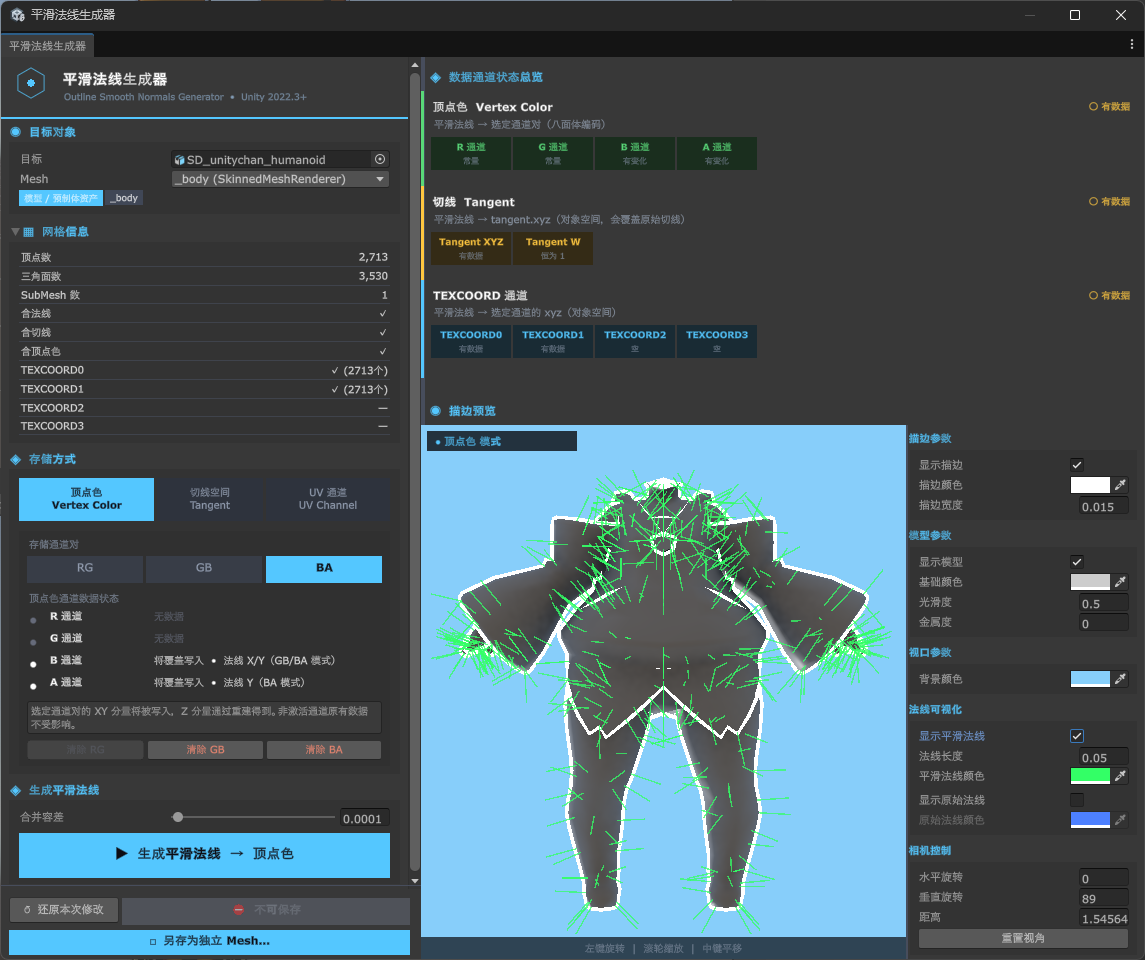
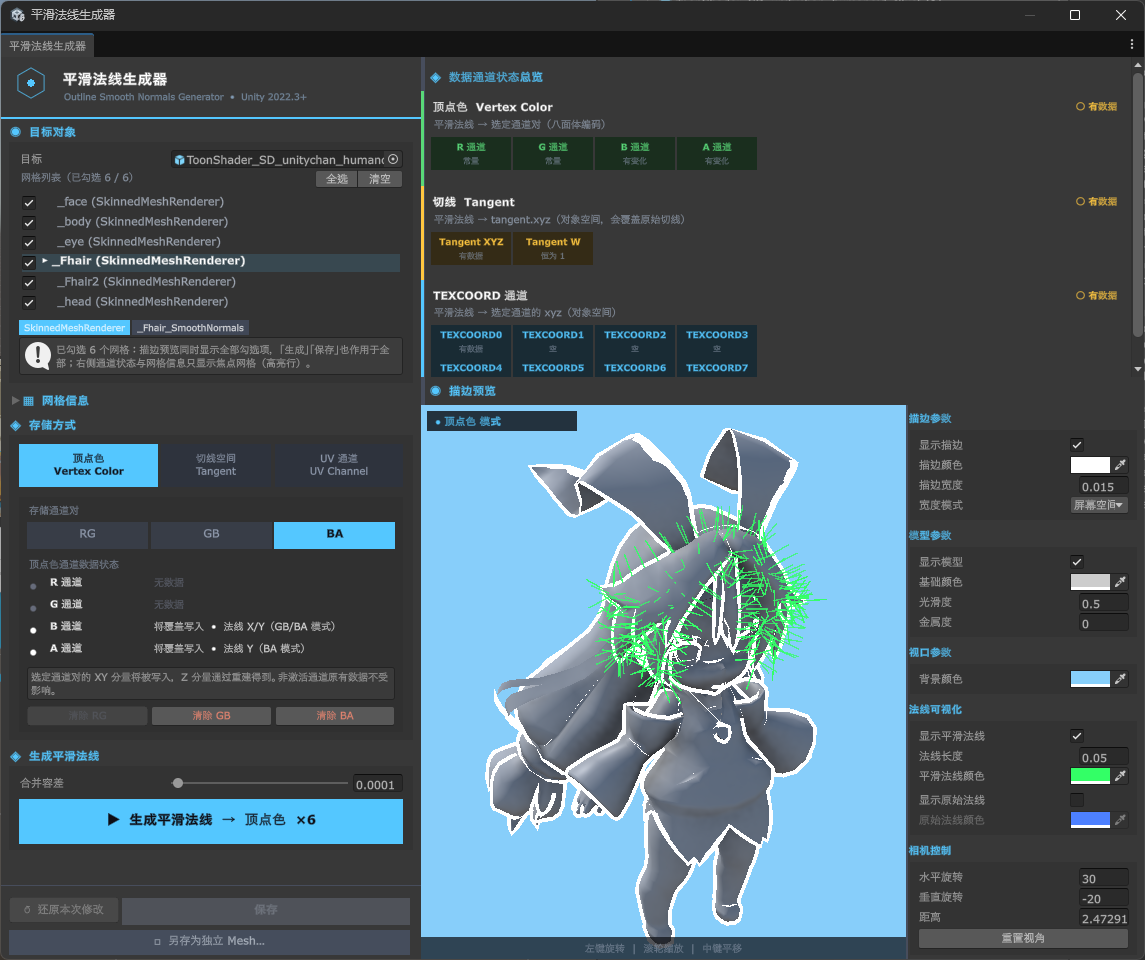
【使用文档】 更新至1.3.0。

diff --git a/Packages/com.alefeng.outlinesmoothnormalsgenerator/README.md b/Packages/com.alefeng.outlinesmoothnormalsgenerator/README.md
@@ -67,11 +67,14 @@ com.alefeng.outlinesmoothnormalsgenerator/
 选择目标，工具会自动读取。目标可以是：
 
 - **场景对象 / 模型**（`.fbx` / `.obj` 等）**/ 预制体** —— 都会自动**遍历整个层级**（含子物体），
-  收集其中全部网格；含多个网格时，用目标区的 **Mesh 下拉**逐个选择（同一网格被多个渲染器
-  共用时自动去重）。
+  收集其中全部网格。
 - **Mesh 资产** —— Project 里的独立 `.asset`，或展开 FBX 选中的 Mesh 子资产，直接就是目标。
 
 也可手动把上述任意一种拖入「目标」字段。
+
+含多个网格时，目标区会列出一个**复选框滚动列表**（顶部「全选 / 清空」，加载新来源时默认
+全选，同一网格被多个渲染器共用时自动去重）。**勾选**决定「生成 / 保存 / 另存为」作用于哪些
+网格、也决定预览显示哪些；**单击网格名**把它设为**焦点** —— 右侧网格信息与通道状态显示焦点网格。
 
 ### 3. 确保网格可写
 
@@ -89,10 +92,11 @@ com.alefeng.outlinesmoothnormalsgenerator/
 
 ### 5. 预览
 
-窗口右侧就是实时预览（**内嵌**，不是单独的窗口）：
+窗口右侧就是实时预览（**内嵌**，不是单独的窗口），显示所有**勾选**的网格（多选时按各自在
+层级中的相对位置同屏摆放，相机自动兜住全部；未勾选时显示占位提示）：
 
 - 左键拖动旋转，滚轮缩放，中键平移
-- 可开启 **显示平滑法线**（绿）与 **显示原始法线**（蓝）叠加对比
+- 可开启 **显示平滑法线**（绿）与 **显示原始法线**（蓝）叠加对比（针对焦点网格）
 - 可调描边宽度、颜色、模型光滑度 / 金属度、背景色
 
 预览与实际渲染共用同一份解码与外扩数学，所见即所得。
@@ -107,11 +111,12 @@ com.alefeng.outlinesmoothnormalsgenerator/
 |---|---|---|
 | **顶点色** | 选定通道对（RG / GB / **BA**） | 八面体编码，2 个 8-bit 分量，误差约 1°。顶点色空闲时的首选。 |
 | **切线** | `tangent.xyz`（`w` 恒为 1） | 完整 float 精度。⚠ **会覆盖原始切线，法线贴图将失效**，仅在该网格不用法线贴图时选用。 |
-| **TEXCOORD** | `TEXCOORD0`–`TEXCOORD3` 的 `xyz` | 完整 float 精度。顶点色被占用时的推荐选择。 |
+| **TEXCOORD** | `TEXCOORD0`–`TEXCOORD7` 的 `xyz` | 完整 float 精度，共 8 个通道可选。顶点色被占用时的推荐选择。 |
 
 ### 关于 TEXCOORD 命名
 
-通道一律以 **`TEXCOORDn`** 称呼，与 `mesh.SetUVs(n)` 的索引**恒等对应**。
+共 8 个通道（`TEXCOORD0`–`TEXCOORD7`），一律以 **`TEXCOORDn`** 称呼，与 `mesh.SetUVs(n)`
+的索引**恒等对应**。
 
 不用「UV1 / UV2」这类叫法是有原因的：Unity 自己的 `mesh.uv2` 其实是 `TEXCOORD1`，
 名字与索引天然差一位，极易搞错。
@@ -153,8 +158,8 @@ com.alefeng.outlinesmoothnormalsgenerator/
 
 | 按钮 | 作用 |
 |---|---|
-| `保存` | 把改动写回 `.asset`。网格不可写时会**阻止**并说明原因，绝不谎报成功。 |
-| `⧉ 另存为独立 Mesh…` | 复制成可写的 `.asset` 并自动替换到对象上。不可写网格唯一的出路。 |
+| `保存` | 把**所有勾选**网格的改动写回各自 `.asset`。网格不可写时会**阻止**并说明原因，绝不谎报成功。 |
+| `⧉ 另存为独立 Mesh…` | 把**所有勾选**的网格复制成可写的 `.asset`（勾 1 个弹命名框，勾多个选文件夹批量生成），场景对象自动回填组件。不可写网格唯一的出路。 |
 | `↺ 还原本次修改` | 回退到本次生成 / 清除之前的状态。 |
 
 > **本工具不依赖 Unity 的 Undo。** `Undo.RecordObject` 并不可靠地跟踪网格顶点数据，
@@ -172,14 +177,16 @@ com.alefeng.outlinesmoothnormalsgenerator/
 
 1. 为模型新建材质，Shader 选 `OutlineSmoothNormalsGenerator/Outline URP`
    （或 `... /Outline Built-in`）。
-2. 在 **Smooth Normal Source** 中选择与**生成时一致**的存储通道。
-   顶点色模式还需把 **Vertex Color Channel** 设成与烘焙时相同的通道对。
+2. 在 **Smooth Normal Source** 中选择与**生成时一致**的存储通道（顶点色 / 切线 /
+   `TEXCOORD0`–`TEXCOORD7`）。顶点色模式还需把 **Vertex Color Channel** 设成与烘焙时相同的通道对。
 3. 调整描边颜色与宽度。**宽度模式**可选 **屏幕空间**（等宽，不随距离变化）或 **世界空间**（按世界单位偏移，近大远小）。
 
 `VertexNormal` 模式沿原始顶点法线外扩，即「未使用本工具」的对照效果，可用来直观对比。
 
 Shader 是两个 Pass：`OUTLINE`（剔除正面的外扩描边）+ `FORWARD`（基础 NPR：
-卡通两段式明暗 + 边缘光，可在材质面板调参）。
+卡通两段式明暗 + 边缘光，可在材质面板调参）。材质面板的 **Base Color Mode** 还提供一组
+**调试档位**，把平滑法线数据直接当颜色显示（顶点色 / 切线 / `UV0`–`UV7`，不经光照），
+便于肉眼核对生成结果；生产时切回 **Base Map**。
 
 ### 方法二：把描边 Pass 并入你自己的 Shader（推荐）
 

diff --git a/README_EN.md b/README_EN.md
@@ -66,7 +66,7 @@ The whole process happens inside the editor, with **live preview, normal-visuali
 | Feature | Description |
 | --- | --- |
 | Angle-weighted smooth normals | Groups vertices by "equal position" and averages face normals weighted by angle, producing a continuous extrusion direction across hard edges that eliminates outline cracking at the source. Also auto-corrects winding orientation for back-facing / double-sided meshes. |
-| Three storage modes | **Vertex color** (selectable RG / GB / BA channel pair, octahedral-encoded), **tangent** (`tangent.xyz`), and **TEXCOORD0–3**. All store a full object-space direction — no compression ambiguity. |
+| Three storage modes | **Vertex color** (selectable RG / GB / BA channel pair, octahedral-encoded), **tangent** (`tangent.xyz`), and **TEXCOORD0–7** (8 channels). All store a full object-space direction — no compression ambiguity. |
 | Live outline preview | Embedded preview viewport with left-drag orbit / scroll zoom / middle-drag pan; adjust outline width, color, plus model smoothness / metallic / base color and background color in real time. |
 | Normal visualization compare | Overlay both the "smooth normal" and "original normal" line segments at once to directly compare the direction difference at hard edges and validate the result instantly. |
 | Data channel overview | Shows in real time whether each channel is "● has smooth normals / ○ has raw data / ✕ empty", so you don't accidentally overwrite existing vertex-color or UV data. |
@@ -100,7 +100,7 @@ https://github.com/AleFeng/OutlineSmoothNormalsGenerator.git?path=/Packages/com.
 This installs the latest commit on `main`. **To pin a version, append `#<tag>` at the very end of the URL** — it must come after `?path=`:
 
 ```
-https://github.com/AleFeng/OutlineSmoothNormalsGenerator.git?path=/Packages/com.alefeng.outlinesmoothnormalsgenerator#1.2.0
+https://github.com/AleFeng/OutlineSmoothNormalsGenerator.git?path=/Packages/com.alefeng.outlinesmoothnormalsgenerator#1.3.0
 ```
 
 See [Releases](https://github.com/AleFeng/OutlineSmoothNormalsGenerator/releases) for available tags.
@@ -136,7 +136,7 @@ Below is the shortest path. **The complete parameter reference and shader sampli
 Menu bar → `Tools → Smooth Normal Generator` to open the "Smooth Normal Generator" window.
 
 ### 2. Pick a Target and Storage Mode
-- Select a target and the tool reads it automatically. It can be a **scene object** (with `MeshFilter` / `SkinnedMeshRenderer`), or a **Mesh asset**, **model** (`.fbx`, etc.), or **prefab** in the Project; you can also drag it into the "Target" field manually. Selecting a scene object, model, or prefab **traverses the whole hierarchy** to collect every mesh in it; when there is more than one, pick from the **Mesh dropdown** in the target section.
+- Select a target and the tool reads it automatically. It can be a **scene object** (with `MeshFilter` / `SkinnedMeshRenderer`), or a **Mesh asset**, **model** (`.fbx`, etc.), or **prefab** in the Project; you can also drag it into the "Target" field manually. Selecting a scene object, model, or prefab **traverses the whole hierarchy** to collect every mesh in it; when there is more than one, the target section shows a **checkbox list** ("Select All / Clear" on top, all selected by default) — **check multiple meshes to edit them together**: Generate / Save / Save As act on every checked mesh, and the preview shows all checked meshes at once.
 - In "Storage Mode", choose **Vertex Color / Tangent / TEXCOORD** (see [Three Storage Modes](#-three-storage-modes)). The "Data Channel Overview" on the right tells you whether the target channel already holds data.
 
 ### 3. Generate and Preview
@@ -160,7 +160,7 @@ Smooth normals are always stored as a **full object-space direction** — no hem
 | --- | --- | --- |
 | **Vertex Color** | RG / GB / **BA** (default) channel pair of `color`, octahedral-encoded | First choice when vertex color is free. Two 8-bit components, ~1° error. |
 | **Tangent** | `tangent.xyz` (`w` is always 1) | Full float precision. ⚠ **Overwrites the original tangent and breaks normal mapping** — only use it when the mesh has no normal map. |
-| **TEXCOORD** | `xyz` of `TEXCOORD0`–`TEXCOORD3` | Recommended when vertex color is occupied. Full float precision. |
+| **TEXCOORD** | `xyz` of `TEXCOORD0`–`TEXCOORD7` | Recommended when vertex color is occupied; 8 channels. Full float precision. |
 
 > Channels are always named `TEXCOORDn`, identity-mapped to the `mesh.SetUVs(n)` index — Unity's own `mesh.uv2` is actually `TEXCOORD1`, so the "UV1/UV2" naming is trivially off by one.
 >

diff --git a/Packages/com.alefeng.outlinesmoothnormalsgenerator/CHANGELOG.md b/Packages/com.alefeng.outlinesmoothnormalsgenerator/CHANGELOG.md
@@ -6,6 +6,40 @@
 `0.x` 为发布前的开发迭代，`1.0.0` 是首个公开版本。由于此前从未对外发布，
 `0.x` 中的「修复」均针对内部早期实现，不涉及任何已发布版本的迁移。
 
+## [1.3.0] - 2026-07-18
+
+批量编辑、8 个 UV 通道、基础色调试。
+
+### 新增
+
+- **多网格批量编辑**：目标网格由「下拉逐个选」改为**复选框滚动列表**（顶部「全选 / 清空」，
+  加载新来源时默认全选）。「生成」「保存」「另存为」作用于**所有勾选的网格**；单击网格名
+  把它设为焦点，右侧网格信息 / 通道状态显示焦点网格。
+- **描边预览同屏显示所有勾选的网格**：按各自在层级中的相对变换摆放，相机自动兜住全部；
+  未勾选任何网格时显示占位提示。
+- **UV 通道由 4 个扩展到 8 个**（`TEXCOORD0`–`TEXCOORD7`）：工具的写入 / 检测 / 清除 /
+  预览，以及两个 Demo 描边 Shader 的描边来源与基础色显示，均支持 `TEXCOORD4`–`TEXCOORD7`。
+- **基础色调试模式**（Demo Shader 材质面板 `Base Color Mode`）：把平滑法线数据直接当颜色
+  显示、不经光照，便于肉眼核对生成结果。含 Base Map / 顶点色（RGB）/ 顶点色 RG·GB·BA
+  （各只显示对应通道对）/ 切线空间（`[-1,1]` 映射到 `[0,1]`）/ UV0–UV7。
+
+### 变更
+
+- **「另存为独立 Mesh」批量化**：勾选 1 个时弹命名对话框（体验同旧版）；勾选多个时选一个
+  目标文件夹，按各自网格名批量生成独立 `.asset`（自动去重命名），场景对象的网格自动
+  回填到组件。「保存」与「另存为」的作用对象都是所有勾选的网格。
+- **描边来源 `_SmoothNormalSrc` 改为运行时按 float 分支**：存储通道扩到 8 个、连同其他
+  模式共 11 项，超过 Shader 内联 `[KeywordEnum]` 上限，故不再用 shader 关键字（改为运行时
+  选择、与预览 Shader 统一，逐顶点一次整型比较、对描边开销可忽略），下拉由自定义 Inspector
+  绘制。取值 0–6 不变、`TEXCOORD4`–`7` 追加为 7–10，已有材质渲染不受影响。
+- **两个 Demo 描边 Shader 的可复用数学收敛到共享 hlsl**：新增 `Shader/OutlineNPR.hlsl`
+  （基础 NPR 光照 + 基础色调试），连同核心 `OutlineSmoothNormals.hlsl` 里的解码来源选择，
+  两个管线共用一份，杜绝各抄一套而漂移。
+
+> ⚠ 从 Sample 复制 `OUTLINE` Pass 到自有 Shader 的用户：本版 Pass 改为读 `uv0`–`uv7`
+> 并按 `_SmoothNormalSrc`（float）运行时选择，不再依赖 `_SMOOTHNORMALSRC_*` 关键字；
+> 需要 8 通道支持时请重新复制本版 Pass。
+
 ## [1.2.0] - 2026-07-18
 
 描边渲染与目标选择增强。
@@ -272,6 +306,7 @@
   不会进入播放器构建 —— 生产用 Shader 放在那里会导致材质在构建后失效。
 - `shader_feature` → `shader_feature_local_vertex`：不再占用全局关键字槽位。
 
+[1.3.0]: https://github.com/AleFeng/OutlineSmoothNormalsGenerator/releases/tag/1.3.0
 [1.2.0]: https://github.com/AleFeng/OutlineSmoothNormalsGenerator/releases/tag/1.2.0
 [1.1.0]: https://github.com/AleFeng/OutlineSmoothNormalsGenerator/releases/tag/1.1.0
 [1.0.0]: https://github.com/AleFeng/OutlineSmoothNormalsGenerator/releases/tag/1.0.0
